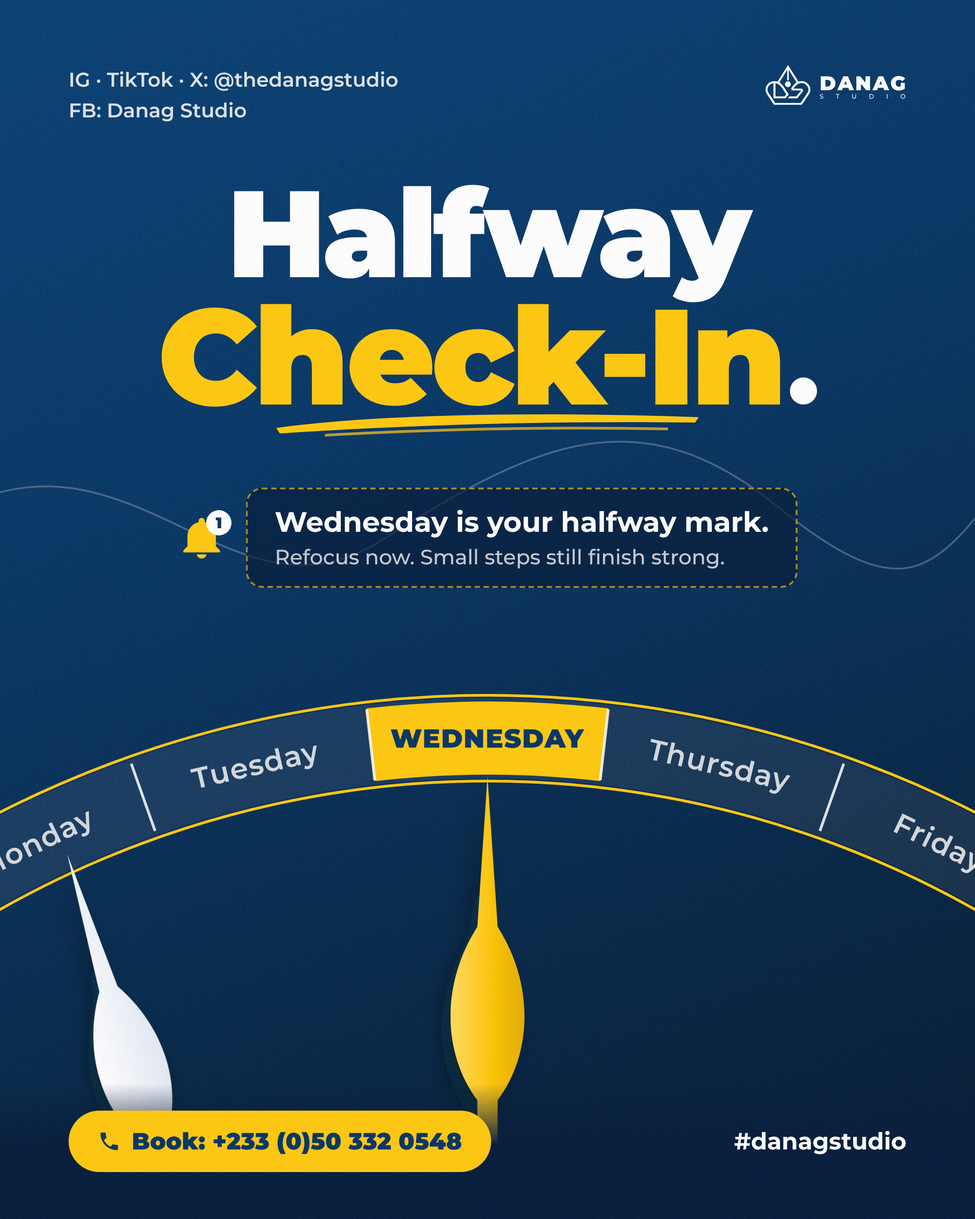
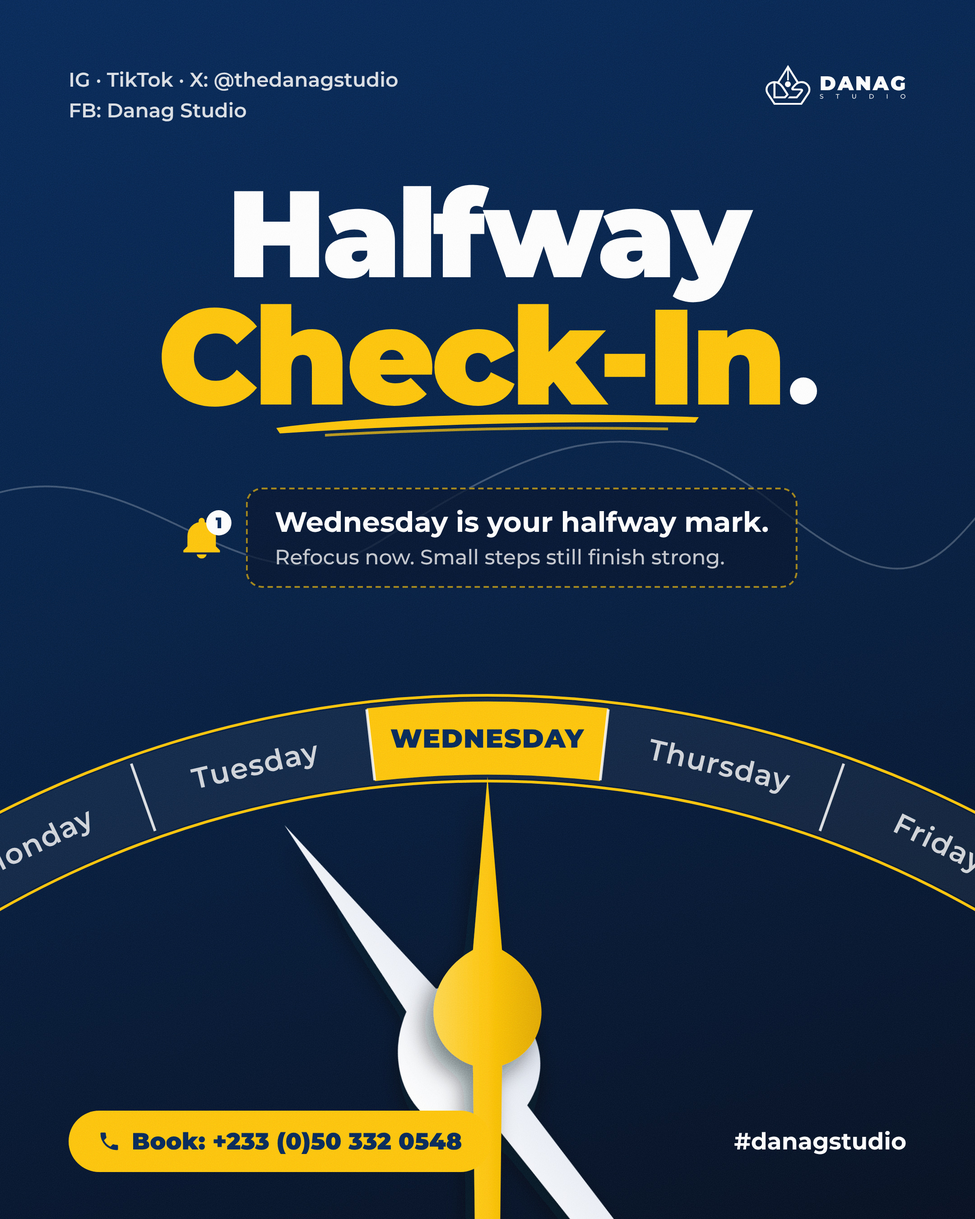
Wed 25 Nov: deeper navy, needles to edge
Claude-Session: https://claude.ai/code/session_016a1VN4sEuNiBsko23wNLQZ

Changed region(s): [[0.0, 0.0, 1.0, 1.0]]

diff --git a/promo/render_wed_dial.py b/promo/render_wed_dial.py
@@ -9,8 +9,8 @@ OUT=sys.argv[1] if len(sys.argv)>1 else f'{R}/flyers/2026-11-25-v1'
 logo=re.sub(r'<\?xml[^>]*>','',open('/home/claude/brand/DANAG-STUDIO-horizontal-mono-white.svg').read()).replace('<svg','<svg style="height:44px;width:auto;display:block"',1)
 ic=lambda k,c,s=20: f'<svg viewBox="0 0 24 24" width="{s}" height="{s}" style="color:{c};flex:none">{IC[k]}</svg>'
 CSS=f'''@font-face{{font-family:M;font-weight:500;src:url({F}montserrat-latin-500-normal.woff2)}}@font-face{{font-family:M;font-weight:600;src:url({F}montserrat-latin-600-normal.woff2)}}@font-face{{font-family:M;font-weight:700;src:url({F}montserrat-latin-700-normal.woff2)}}@font-face{{font-family:M;font-weight:900;src:url({F}montserrat-latin-900-normal.woff2)}}
-*{{margin:0;padding:0;box-sizing:border-box}}body{{width:1080px;height:1350px;overflow:hidden;position:relative;font-family:M;background:linear-gradient(160deg,#032F65 0%,#022452 40%,#011631 78%,#010F21 100%)}}.a{{position:absolute}}'''
-noise='''<svg class="a" style="inset:0;width:1080px;height:1350px;z-index:20;pointer-events:none;mix-blend-mode:soft-light;opacity:1"><filter id="nz"><feTurbulence type="fractalNoise" baseFrequency=".9" numOctaves="3" stitchTiles="stitch"/><feColorMatrix type="saturate" values="0"/></filter><rect width="100%" height="100%" filter="url(#nz)"/></svg>'''
+*{{margin:0;padding:0;box-sizing:border-box}}body{{width:1080px;height:1350px;overflow:hidden;position:relative;font-family:M;background:linear-gradient(165deg,#022452 0%,#011b3e 45%,#011129 80%,#010b1c 100%)}}.a{{position:absolute}}'''
+noise='''<svg class="a" style="inset:0;width:1080px;height:1350px;z-index:20;pointer-events:none;mix-blend-mode:overlay;opacity:.35"><filter id="nz"><feTurbulence type="fractalNoise" baseFrequency=".9" numOctaves="3" stitchTiles="stitch"/><feColorMatrix type="saturate" values="0"/></filter><rect width="100%" height="100%" filter="url(#nz)"/></svg>'''
 # dial
 CX,CY,RO,RI=540,1960,1190,1095
 def pt(r,a): a=math.radians(a); return CX+r*math.sin(a), CY-r*math.cos(a)
@@ -28,7 +28,7 @@ for d,a in zip(days,angs):
     band+=f'<text x="{x:.1f}" y="{y:.1f}" transform="rotate({a} {x:.1f} {y:.1f})" text-anchor="middle" dominant-baseline="central" font-family="M" font-weight="{900 if w else 600}" font-size="{29 if w else 32}" letter-spacing="1" fill="{N if w else "rgba(255,255,255,.8)"}">{d.upper() if w else d}</text>'
 def needle(L,ang,fill,px,py,w=1):
     k=L/320*w
-    p=f'M0,{-L} L{9*k:.1f},{-.74*L} C{42*k:.1f},{-.64*L} {40*k:.1f},{-.52*L} {9*k:.1f},{-.44*L} L{8*k:.1f},0 L{-8*k:.1f},0 L{-9*k:.1f},{-.44*L} C{-40*k:.1f},{-.52*L} {-42*k:.1f},{-.64*L} {-9*k:.1f},{-.74*L} Z'
+    p=f'M0,{-L} L{13*k:.1f},{-.70*L} C{60*k:.1f},{-.65*L} {60*k:.1f},{-.53*L} {13*k:.1f},{-.50*L} L{10*k:.1f},0 L{-10*k:.1f},0 L{-13*k:.1f},{-.50*L} C{-60*k:.1f},{-.53*L} {-60*k:.1f},{-.65*L} {-13*k:.1f},{-.70*L} Z'
     return f'<path d="{p}" transform="translate({px},{py}) rotate({ang})" fill="{fill}" filter="url(#sh)"/>'
 dial=f'''<svg class="a" style="inset:0;width:1080px;height:1350px;z-index:3" viewBox="0 0 1080 1350"><defs>
 <linearGradient id="gg" x1="0" y1="0" x2="1" y2="0"><stop offset="0" stop-color="#ffd54a"/><stop offset=".5" stop-color="#FFC107"/><stop offset="1" stop-color="#e0a200"/></linearGradient>
@@ -36,7 +36,7 @@ dial=f'''<svg class="a" style="inset:0;width:1080px;height:1350px;z-index:3" vie
 <filter id="sh" x="-50%" y="-20%" width="200%" height="140%"><feDropShadow dx="-10" dy="14" stdDeviation="12" flood-color="#000814" flood-opacity=".55"/></filter></defs>
 <path d="M-40,560 C150,470 260,700 420,600 S700,430 860,560 S1040,620 1140,500" stroke="rgba(255,255,255,.22)" stroke-width="2" fill="none"/>
 {band}
-{needle(600,-17,"url(#ww)",250,1520,.62)}
+{needle(820,-38,"url(#ww)",820,1560,.62)}
 {needle(640,0,"url(#gg)",540,1500,.62)}
 </svg>'''
 brush=f'''<svg class="a" style="left:300px;top:448px;width:480px;height:40px;z-index:6" viewBox="0 0 480 40"><path d="M6,26 C120,10 300,8 474,14 L470,20 C320,18 160,22 10,32 Z" fill="{G}"/><path d="M60,34 C200,26 330,25 440,27" stroke="{G}" stroke-width="3" fill="none" opacity=".7"/></svg>'''
@@ -57,7 +57,7 @@ html=f'''<body>
   <div style="color:rgba(255,255,255,.75);font-weight:500;font-size:23px;margin-top:6px;white-space:nowrap">Refocus now. Small steps still finish strong.</div>
  </div>
 </div>
-<div class="a" style="left:0;right:0;bottom:0;height:150px;z-index:8;background:linear-gradient(180deg,rgba(1,16,42,0),#01102a 45%)"></div>
+
 <div class="a" style="left:76px;right:76px;bottom:52px;z-index:9;display:flex;align-items:center;justify-content:space-between">
  <div style="display:flex;align-items:center;gap:12px;background:{G};color:{N};font-weight:800;font-weight:900;font-size:26px;border-radius:40px;padding:18px 32px">{ic("PH",N,26)}Book: +233 (0)50 332 0548</div>
  <div style="color:#fff;font-weight:700;font-size:26px">#danagstudio</div>
